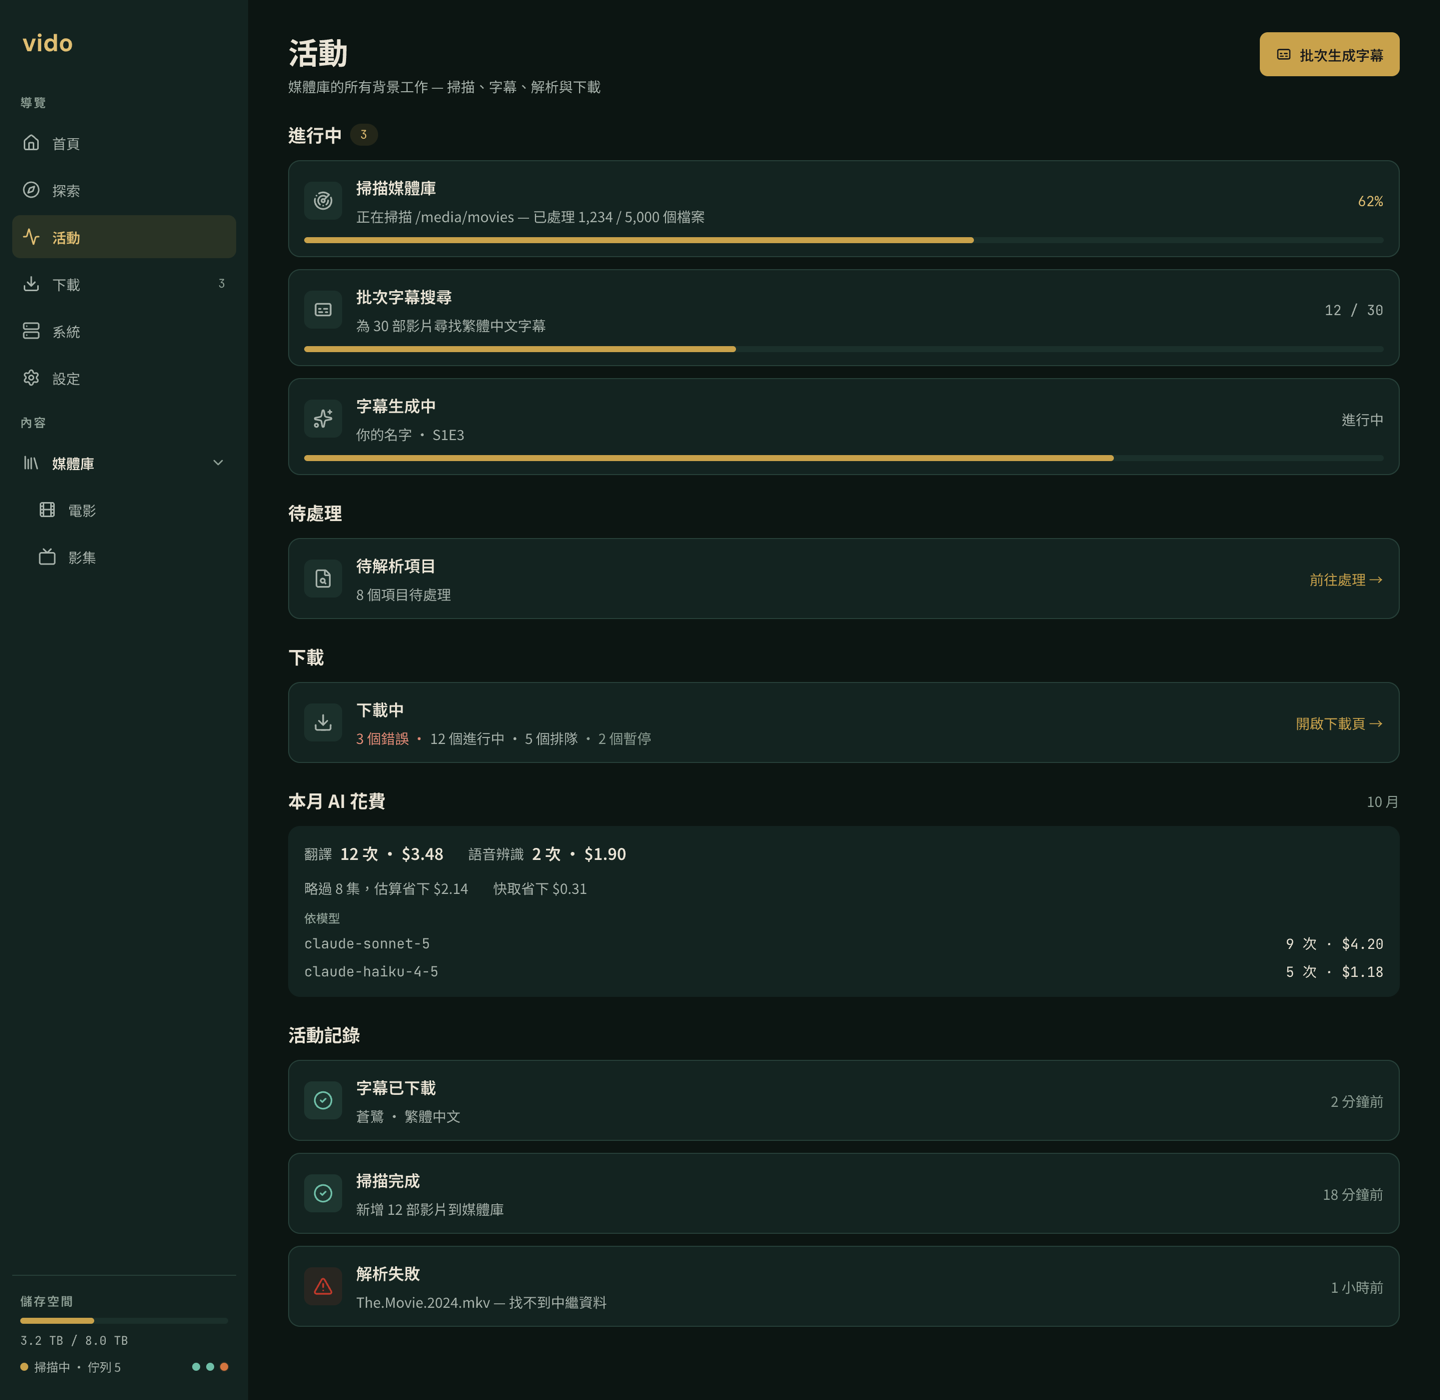
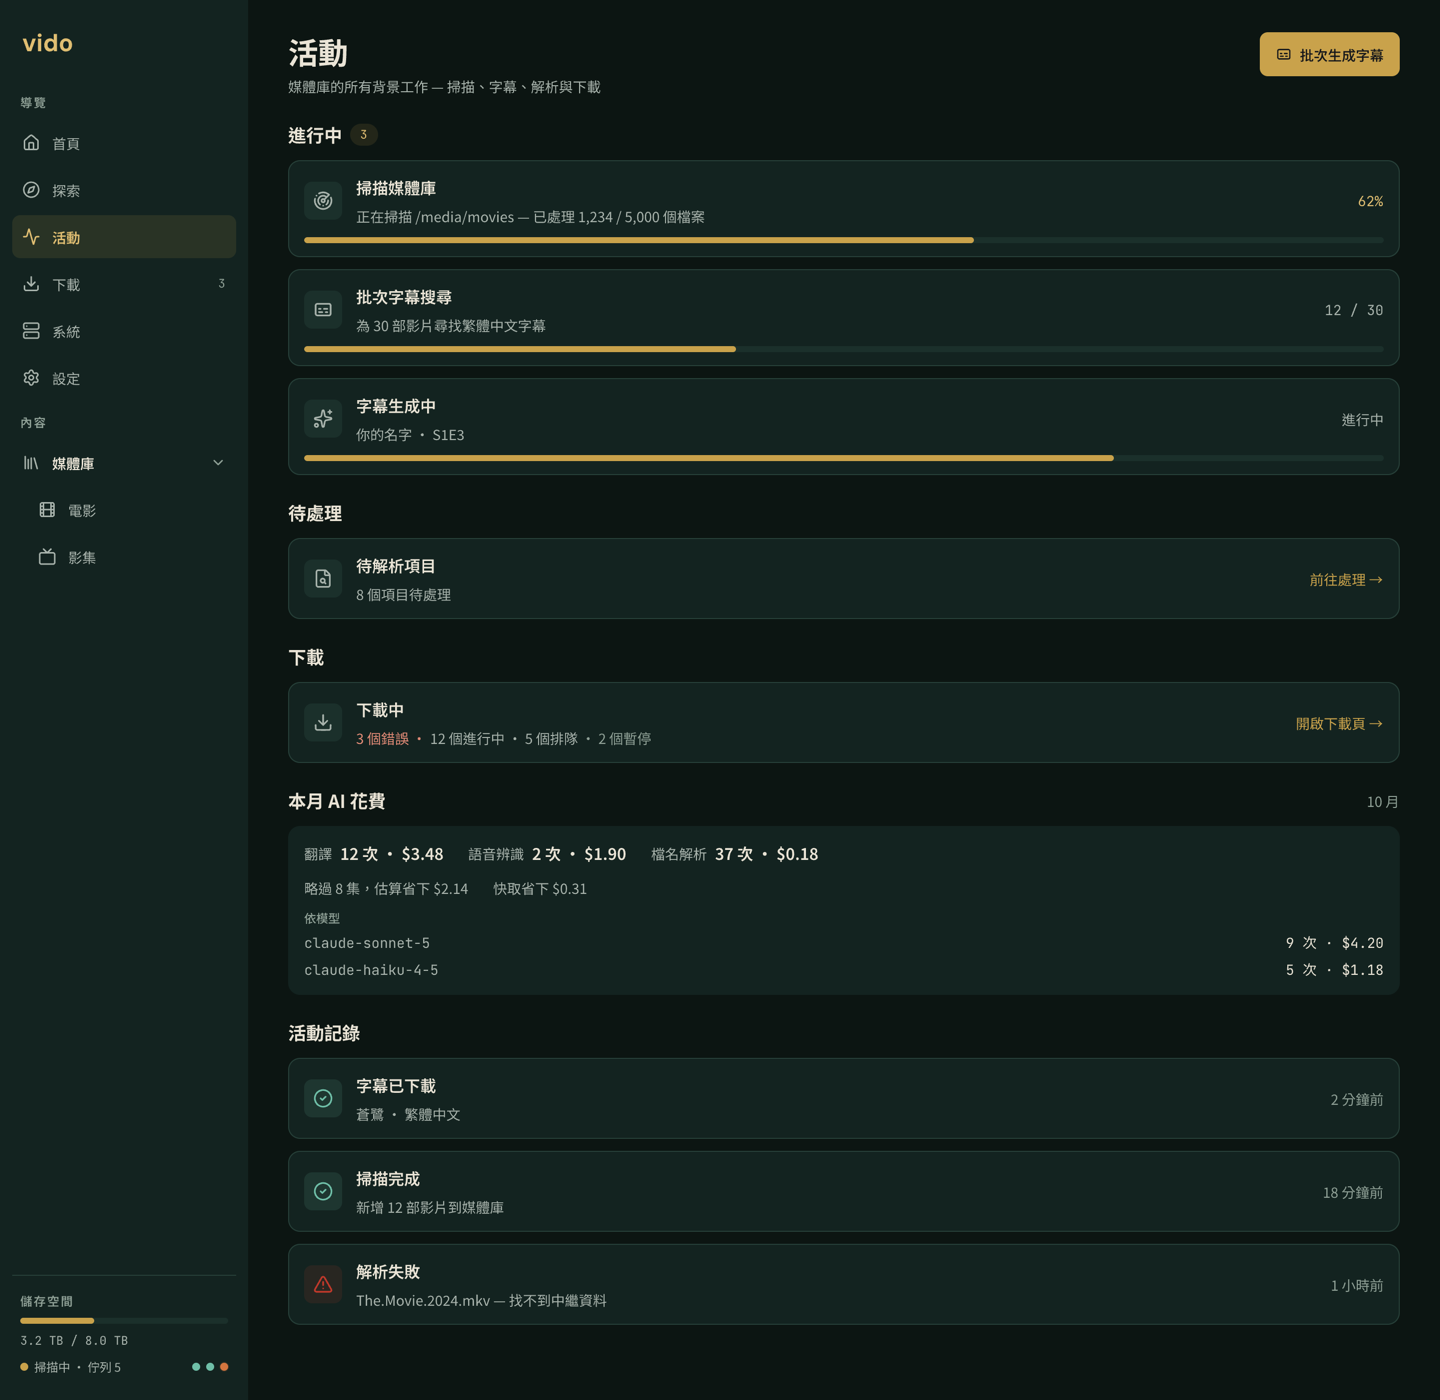
feat: update UX design — 「本月 AI 花費」多一格「檔名解析」，掃描時問 AI 花的錢看得到 (#891)
原本會怎樣：
  #890 合併後，AI 檔名解析會用使用者的金鑰、每次花的錢也記下來了，
  但設計稿的「本月 AI 花費」只有翻譯、語音辨識兩格，畫面沒有地方放這筆錢。
改成怎樣：
  K5-D-v2／K5-M-v2 的頭條那一行加第三格「檔名解析 37 次 · $0.18」，樣式照抄語音辨識那格
  （Sally 裁定：有呼叫才顯示、不進依模型、首頁本月總額算進去）。
  backlog-ai-parse-reads-env-keys-only-b 解除 blocked → ready-for-dev。
怎麼確定：
  Alexyu 用 Pen Inline Agent 改稿並存檔；Pencil MCP 唯讀複審新節點 n64lI／Z4ZUhQ 的字與 $ token
  跟語音辨識那格一致；scratch 複本重出截圖，只有 k5-d.png 變（k5-m 卡片在畫面外，位元相同）。

Claude-Session: https://claude.ai/code/session_01TZUND5ZxEwKVZF3Ze2AcEd

diff --git a/_bmad-output/implementation-artifacts/backlog-ai-parse-reads-env-keys-only-b.md b/_bmad-output/implementation-artifacts/backlog-ai-parse-reads-env-keys-only-b.md
@@ -1,6 +1,6 @@
 # Backlog -b：「本月 AI 花費」和首頁「本月 $x」把檔名解析花的錢算進去（設計稿＋前端）
 
-Status: blocked
+Status: ready-for-dev
 
 **Source:** 從 `backlog-ai-parse-reads-env-keys-only` 拆出來，見 -a 的拆單說明。⚖ Alexyu 2026-10-21 選 A：AI 檔名解析打開，花的錢要記進花費紀錄。-a 負責把錢逐筆記下來，並在 `/subtitles/spend` 回傳 `parse_calls`、`parse_usd`；本單負責讓使用者看得到。
 
@@ -62,8 +62,8 @@ Status: blocked
 
 ### 設計稿 / Design ref
 
-- K5-D-v2 `xgYKA`：卡片 `m9wRx`、`row-用量` `hbiao`、範本格 `grp-語音辨識` `ie9uz`。
-- K5-M-v2 `ptNai`：卡片 `D847yg`、`row-用量` `VIUSX`（直排）、範本格 `grp-語音辨識` `jcUSq`。
+- K5-D-v2 `xgYKA`：卡片 `m9wRx`、`row-用量` `hbiao`、範本格 `grp-語音辨識` `ie9uz`、新格 `grp-檔名解析` `n64lI`。
+- K5-M-v2 `ptNai`：卡片 `D847yg`、`row-用量` `VIUSX`（直排）、範本格 `grp-語音辨識` `jcUSq`、新格 `grp-檔名解析` `Z4ZUhQ`。
 
 ### Pen 提示詞（Alexyu 貼給 Pen 的 Inline AI Agent）
 
@@ -93,6 +93,7 @@ Status: blocked
 | 日期 | 變更 |
 |---|---|
 | 2026-10-21 | 建單（Bob）。Sally 裁定：K5 頭條加第三格「檔名解析」，有呼叫才顯示；不進「依模型」；首頁總額算進去。等設計稿和 -a。 |
+| 2026-10-22 | 解除 blocked → ready-for-dev：-a 已合併（#890）；Alexyu 跑完 Pen，K5-D-v2 加 `grp-檔名解析` `n64lI`（`lab-檔名解析` `P0zNh7`、`val-檔名解析` `lVds7`），K5-M-v2 加 `Z4ZUhQ`（`b8R4Jv`、`U4t0w`）；Sally MCP 唯讀複審字與樣式 token 跟語音辨識那格一致。截圖 `k5-d.png` 隨設計稿 PR 提交；`k5-m.png` 不變（手機稿卡片本來就在摺線下，畫面外）。 |
 
 ## Dev Agent Record
 
